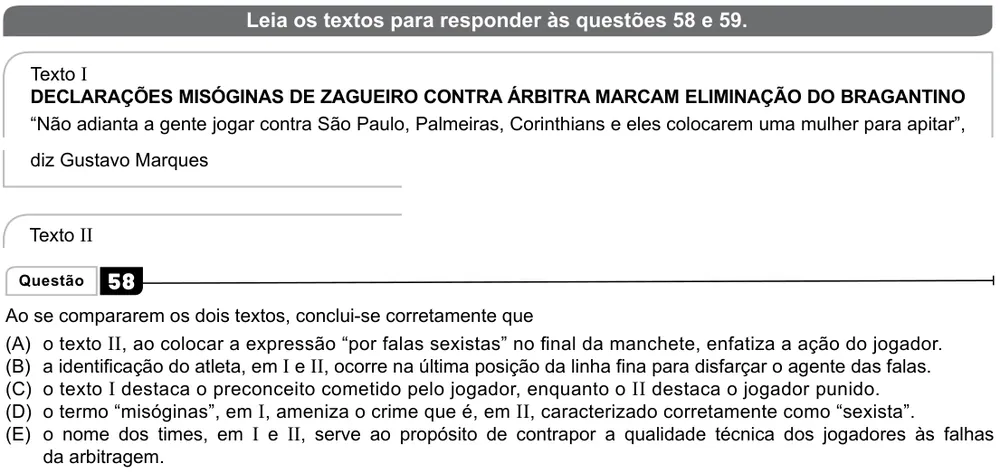
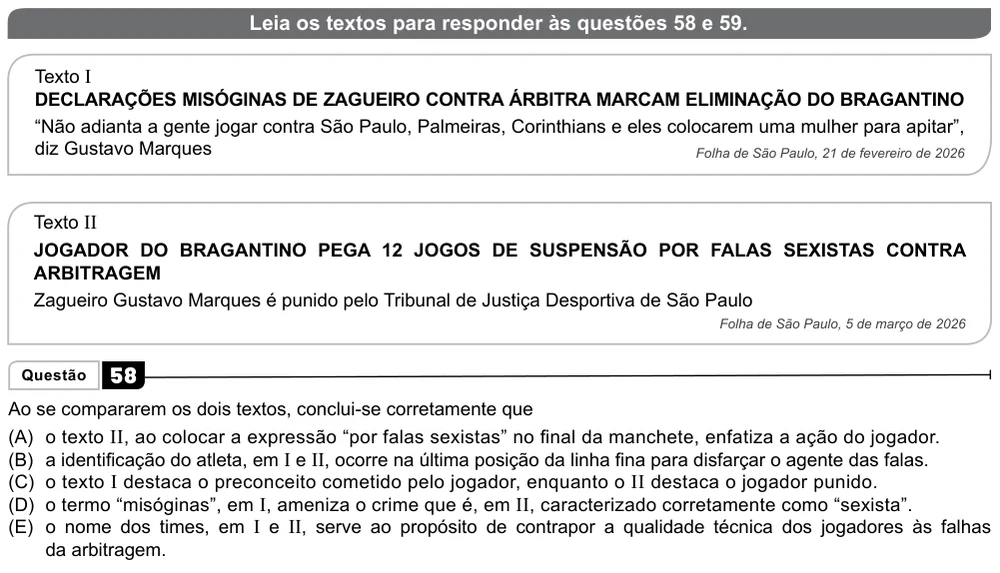
Prints refeitos do PDF oficial: 3 questões de Português voltam para a fila
- fatec-2026-2 q58 (P0c8c68ab): incluídos o comando e os Textos I e II (manchete que faltava).
- fema-2020 q19 (P31dcd8ee): incluído o conto de apoio (pág. 6 e 7) acima do enunciado.
- ufsm-2025 q48 (Pbddde95d): recorte da página inteira, alternativas C e D completas.
Texto guardado atualizado pela camada de texto; retiradas dos pendentes de registro-por.json.

Claude-Session: https://claude.ai/code/session_01PveEKabuyZnqVN65W5FfEc

Changed region(s): [[0.0, 0.0, 1.0, 1.0], [0.992, 0.0296, 1.0, 0.0592]]

diff --git a/docs/resolucoes/lotes-por.md b/docs/resolucoes/lotes-por.md
@@ -1,6 +1,6 @@
 # Português: resoluções (gerado por lote.py em 2026-11-13)
 
-Faltam 2227 questões sem resolução (fora as que estão em lote, pendentes ou com divergência): ENEM nível 1-6 0; provas-alvo nível 1-6 0; demais nível 1-6 1688; ENEM nível 7-10 53; provas-alvo nível 7-10 225; demais nível 7-10 261.
+Faltam 2230 questões sem resolução (fora as que estão em lote, pendentes ou com divergência): ENEM nível 1-6 0; provas-alvo nível 1-6 0; demais nível 1-6 1691; ENEM nível 7-10 53; provas-alvo nível 7-10 225; demais nível 7-10 261.
 
 ## Lotes
 
@@ -112,8 +112,6 @@ Faltam 2227 questões sem resolução (fora as que estão em lote, pendentes ou 
 | P52289eb6 | Acafe 2026 Verão · questão 11 | P12.5 literatura contemporânea e autores africanos de língua portuguesa (tema P12 Literatura: Pré-Modernismo em diante) | obra: o poema Andorinhas escrevem no ar derruba C (o eu lírico entende a escrita da andorinha, não a vê como inalcançável) e D (o próprio poema é de versos livres, sem forma clássica), mas escolher entre A (temática central de O Código das Águas: economia verbal e impacto visual) e B (o espírito da Catequese Poética) depende de saber qual é a temática do livro e o que foi a Catequese Poética de Lindolf Bell, que a questão não explica. |
 | P3bd2c3bc | Acafe 2026 Verão · questão 12 | P12.4 Geração de 45 e prosa de ruptura: Guimarães Rosa, Clarice Lispector, João Cabral (tema P12 Literatura: Pré-Modernismo em diante) | obra: as quatro alternativas tratam do enredo e das personagens de Memorial de Maria Moura, de Rachel de Queiroz (questão agrária, liderança de Maria Moura, papéis de gênero, polifonia e visão da protagonista), sem trecho do romance na questão; a eliminação depende da leitura integral. Além disso, Rachel de Queiroz é autora do Modernismo de 30, não da geração de 45 (P12.4). |
 | Pb66a8695 | Acafe 2026 Verão · questão 13 | P01.2 informação explícita × inferência (tema P01 Leitura e compreensão) | O comando pede a alternativa correta "considerando o contexto da obra" O exercício da incerteza, mas a questão traz só uma frase do livro; a alternativa do gabarito (B) fala em estudo contínuo e humanização do paciente, que não se deduzem da frase citada. Resolver exigiria afirmar o conteúdo do livro, que não está na questão. |
-| P0c8c68ab | Fatec 2026 2º semestre · questão 58 | P01.2 informação explícita × inferência (tema P01 Leitura e compreensão) | print: o Texto II (a segunda manchete, com "por falas sexistas") não está no print nem no texto da prova; só aparece o rótulo "Texto II". O print das questões 58 e 59 (fatec-2026-2) tem o mesmo corte. |
-| P31dcd8ee | Fema 2021 Processo Seletivo 2021 · questão 19 | P01.2 informação explícita × inferência (tema P01 Leitura e compreensão) | print: o texto de apoio (a trajetória do escrevente) não está no print 019 nem no texto da prova; o print 018 é de Química. Refazer o print a partir do PDF oficial. |
 | Pfa1a5f21 | Fuvest 2021 1ª fase · questão 34 | P11.1 Barroco e Arcadismo (tema P11 Literatura: do Barroco ao Simbolismo) | classificação: é de Biologia (com História). A estrofe de Os Lusíadas serve só de contexto; o comando pede a doença cujos sintomas Camões descreve, e as alternativas são doenças com agente, transmissão e época (peste bubônica, escorbuto, malária, varíola, leishmaniose). A resposta (escorbuto, gabarito B) depende de reconhecer o quadro clínico da falta de vitamina C (gengivas inchadas que crescem e apodrecem) e o contexto das viagens ultramarinas, conteúdo de Biologia e História, não de Barroco ou Arcadismo. |
 | Pd0bacd15 | Fuvest 2022 1ª fase · questão 19 | P11.3 Realismo e Naturalismo, com Machado de Assis (tema P11 Literatura: do Barroco ao Simbolismo) | obra: a questão pede quais obras da lista da Fuvest têm narrativas paralelas e não traz trecho nenhum. Para decidir entre Quincas Borba, Nove noites, Campo geral, Terra sonâmbula e Angústia, é preciso conhecer a estrutura de cada romance inteiro: quantos fios narrativos há e como eles se alternam. Nem datas nem escolas separam as alternativas. Observação: a classificação em P11.3 só se aplica a Quincas Borba; as outras obras são do século XX ou da literatura africana de língua portuguesa. |
 | P154ccb4a | Fuvest 2024 1ª fase · questão 15 | P12.5 literatura contemporânea e autores africanos de língua portuguesa (tema P12 Literatura: Pré-Modernismo em diante) | obra: a questão pergunta o resultado da rivalidade entre Yaqub e Omar em Dois irmãos, de Milton Hatoum, sem trecho do romance; C (a ida de Nael a São Paulo) e D (a morte de Rânia) são fatos de enredo que só a leitura do livro confirma ou desmente, e a E também depende do desfecho do romance. |
@@ -161,7 +159,6 @@ Faltam 2227 questões sem resolução (fora as que estão em lote, pendentes ou 
 | Pbc02114e | UFPR 2025 1ª fase · questão 69 | P11.1 Barroco e Arcadismo (tema P11 Literatura: do Barroco ao Simbolismo) | obra: a questão não traz nenhum trecho das Liras de Marília de Dirceu. As afirmativas 2 (voz de Dirceu em todas as liras, fuga do amor até ser vencido por Cupido) e 3 (predomínio de versos de 5 e 7 sílabas) exigem conhecer o conjunto da obra; a 1 depende do local e da data de publicação, que a questão não dá. |
 | P5ddee564 | UFPR 2026 1ª fase · questão 67 | P12.5 literatura contemporânea e autores africanos de língua portuguesa (tema P12 Literatura: Pré-Modernismo em diante) | obra: a questão pede comparar três contos de O sol na cabeça, de Geovani Martins ("Rolézim", "Estação Padre Miguel" e "A história do Periquito e do Macaco"), sem reproduzir nenhum trecho; quem narra cada conto, o tipo de linguagem, o gênero dos protagonistas e o peso da violência em cada um só se verificam com a leitura do livro, e nenhuma alternativa cai por eliminação sem isso. |
 | P4e59af67 | UFPR 2026 1ª fase · questão 72 | P11.2 Romantismo: poesia das três gerações e prosa (tema P11 Literatura: do Barroco ao Simbolismo) | obra: a questão pergunta quem é a mulher que entra no capítulo final de Noite na taverna, e as cinco alternativas resumem enredos de capítulos diferentes do livro. A prova não traz trecho nenhum: a resposta depende inteiramente da leitura da obra, e nada no enunciado permite separar a C das outras. |
-| Pbddde95d | UFSM 2025 · questão 48 | P01.2 informação explícita × inferência (tema P01 Leitura e compreensão) | print: alternativas C e D cortadas na margem; recortar de novo do PDF da UFSM |
 | Pd561650c | UFU 2020 1ª fase · questão 59 | P12.4 Geração de 45 e prosa de ruptura: Guimarães Rosa, Clarice Lispector, João Cabral (tema P12 Literatura: Pré-Modernismo em diante) | obra: as alternativas tratam do enredo de A moratória, de Jorge Andrade (perda da fazenda, papel do governo, casamento de Lucília, o que se revela em cada ato), sem trecho da peça na questão; a eliminação depende inteiramente da peça. Também não é obra da geração de 45 (P12.4). |
 | Pb02266b6 | UFU 2020 1ª fase · questão 60 | P12.5 literatura contemporânea e autores africanos de língua portuguesa (tema P12 Literatura: Pré-Modernismo em diante) | obra: a questão pede a afirmação correta sobre os relacionamentos em A cor púrpura, de Alice Walker, sem trecho do romance; A e B usam "sempre", mas derrubá-las exige exemplos do livro, e C (Celie e Shug abandonam os homens para serem um casal) e D (vínculos entre mulheres negras e brancas) só se julgam conhecendo o enredo. |
 | P9cb2e259 | UFU 2021 1ª fase · questão 57 | P12.1 Pré-Modernismo: Euclides da Cunha, Lima Barreto, Augusto dos Anjos (tema P12 Literatura: Pré-Modernismo em diante) | obra: o trecho dado é só a abertura do conto "O número da sepultura". A alternativa A cai pelo trecho (narração em 3ª pessoa: "podia ela dizer", "lhe parecia"), mas B (pai e marido como antagonistas que tolhem Zilda) e D (enredo de reviravoltas e humor absurdo) dependem do enredo do conto, que não está na prova; sem ele não dá para provar que B e D são falsas, nem que o conto se passa no subúrbio, como diz a C. |

diff --git a/docs/provas/prints-refeitos.md b/docs/provas/prints-refeitos.md
@@ -165,3 +165,6 @@
 | 2026-11-12 | (script) | — | — | transcreve.py: junção de linhas | — | causa: `_limpa` tirava todo hífen seguido de espaço/quebra e letra minúscula (inclusive o do meio da linha: "1- meiose" → "1meiose", e o de verdade no fim da linha: "tornando-se" → "tornandose"); a continuação da alternativa em outro bloco era emendada depois da limpeza ("au- menta" ficava); o U+00AD virava "-" mesmo no meio da palavra ("s-ublinhado"). Agora: a emenda de linha que termina em hífen leva a marca QUEBRA e `_limpa` decide com `_hifen_real` (maiúscula/número depois do hífen; uso da palavra inteira × com hífen no `texto` de todas as provas gravadas; prefixos pós/recém/além/vice/grã; compostos em -ico; pronome depois do verbo; endereço); hífen com espaço no meio da linha fica como impresso; U+00AD no meio da linha sai; hífen repetido na linha de baixo vira um só; a continuação da alternativa passa de novo pela limpeza; palavra partida entre blocos continua o bloco anterior. Conferido rodando em cópia (unioeste-2021/2022, unicamp-2024/2026, pucrio-2024/2026, uece 2020-2/2021-1/2022-1/2026-1, são camilo 2025-2, einstein 2025/2026, unesp-2024/2024-2, fuvest-2024/2025, fmj-2022, unitins-2020-1, ufpr-2026, famerp-2023, santacasa-2026, pucrs-2026, uel-2025, ufu-2021): as diferenças de hífen em relação aos arquivos corrigidos à mão ficaram só em compostos raros sem registro no corpus ("n-dimensional", "côncavo-convexas", "multibillion-dollar", "protege-los") e endereços ambíguos ("xvjornada"); arquivos gravados não foram regravados pelo script |
 
 Provas da varredura de hífens (questões alteradas / trechos): acafe-2022-inverno 1q/1; acafe-2023-inverno 1q/1; acafe-2024-verao 1q/1; acafe-2025-inverno 2q/2; acafe-2026-verao 1q/1; cederj-2020-1 1q/1; cederj-2021-2 7q/8; cederj-2023-1 1q/1; cederj-2024-1 1q/1; cederj-2026-1 2q/2; cederj-2026-2 4q/4; cmmg-2021-2 1q/1; cmmg-2022-1 1q/1; cmmg-2024-2 2q/6; cmmg-2026-2 5q/5; einstein-2025 6q/13; einstein-2026 9q/22; emescam-2022-1 2q/2; enem-2025 1q/1; famema-2022 1q/1; famema-2025 4q/7; famerp-2021 6q/7; famerp-2022 1q/1; famerp-2023 3q/4; fatec-2025-1 4q/4; fema-2020 1q/1; fempar-2021 1q/1; fempar-2026 1q/1; fempar-2027 4q/5; fmabc-2020 1q/1; fmabc-2021 6q/6; fmabc-2022 1q/1; fmabc-2025 1q/1; fmj-2022 3q/3; fuvest-2022 2q/2; fuvest-2023 3q/3; fuvest-2024 8q/9; fuvest-2025 1q/2; fuvest-2026 3q/3; fuvest-2027 2q/3; mackenzie-2022-2 4q/4; mackenzie-2026-1 1q/1; mackenzie-2026-2 1q/1; mackenzie-2026-3 4q/7; mackenzie-2027-1 2q/2; puccampinas-2021 2q/2; puccampinas-2022 1q/1; puccampinas-2027 2q/2; pucpr-2024-1 3q/3; pucpr-2024-2 1q/1; pucpr-2025-2 1q/1; pucrio-2023 1q/1; pucrio-2024 8q/23; pucrio-2024-g2 3q/5; pucrio-2025 7q/16; pucrio-2026 6q/21; pucrio-2027 3q/5; pucrs-2022 7q/16; pucrs-2023 5q/13; pucrs-2025 3q/4; pucrs-2026 8q/18; pucsp-2026 2q/2; santacasa-2021 1q/1; santacasa-2025 1q/2; santacasa-2026 11q/18; santacasa-2027 5q/5; saocamilo-2020-1 7q/9; saocamilo-2021-2 1q/1; saocamilo-2023-1 3q/4; saocamilo-2025-2 12q/42; udesc-2023-2 2q/2; uea-2021 2q/2; uea-2021-bio 4q/4; uea-2025 1q/1; uea-2026 7q/7; uea-2026-hum 1q/1; uea-2027-hum 1q/1; uea-sis3-2020 1q/1; uea-sis3-2027 2q/3; uece-2020-2 1q/1; uece-2020-2-f2 10q/12; uece-2021-1 10q/10; uece-2021-1-f2 12q/13; uece-2022-1 10q/10; uece-2022-1-f2 14q/15; uece-2022-2-f2 5q/7; uece-2023-1 7q/7; uece-2023-2 1q/1; uece-2024-1 4q/4; uece-2024-2 2q/2; uece-2025-1 2q/3; uece-2025-2 5q/5; uece-2026-1 9q/9; uece-ead-2022 1q/1; ueg-2020-1 3q/6; ueg-2021-1 1q/1; ueg-2021-2 3q/3; ueg-2022-1 2q/2; ueg-2022-2 2q/2; ueg-2023-1 2q/2; ueg-2024-2 4q/4; ueg-2025-1 3q/3; ueg-2026-1 1q/1; ueg-2026-2 2q/2; ueg-medicina-2024-2 4q/5; ueg-medicina-2025-2 1q/1; uel-2020 1q/2; uel-2022 2q/2; uel-2023 2q/2; uel-2025 3q/3; uel-2026 3q/3; uema-paes-2020 3q/3; uema-paes-2021 1q/1; uema-paes-2022 1q/3; uema-paes-2024 1q/1; uemg-2024 2q/2; ufam-psc3-2020 1q/1; ufam-psc3-2021 1q/2; ufam-psc3-2023 2q/2; ufam-psc3-2024 3q/3; ufpr-2020 1q/1; ufpr-2026 1q/1; ufrr-2023 1q/1; uft-2022-1 1q/1; uft-2022-2 2q/3; uft-2023-1 4q/4; uft-2023-2 1q/1; uft-2024-1 3q/3; uft-2024-2 2q/3; ufu-2020 1q/1; ufu-2021 4q/8; ufu-2022 2q/2; ufu-2023 2q/2; ufu-2024 1q/1; ufu-2025 1q/1; ufu-2026 2q/2; unemat-2022-2 1q/1; unemat-2026-1 2q/2; unesp-2020 2q/3; unesp-2021 1q/2; unesp-2021-exh 8q/9; unesp-2022 1q/1; unesp-2022-exh 2q/2; unesp-2023 1q/1; unesp-2024 1q/1; unesp-2024-2 12q/16; unesp-2025 1q/1; unesp-2025-2 2q/3; unesp-2026-2 1q/1; unicamp-2021 2q/2; unicamp-2021-exh 2q/2; unicamp-2023 15q/52; unicamp-2024 16q/46; unicamp-2025 10q/34; unicamp-2026 17q/59; unicamp-2027 10q/25; unicentro-2022 2q/2; unicentro-2024 3q/3; unicentro-2027 2q/2; unifesp-2024 1q/3; unifor-2025-1 1q/1; unifor-2026-1 1q/1; unifor-2026-2 4q/4; unifor-2027-1 3q/3; unimontes-2024 1q/1; unioeste-2021 39q/176; unioeste-2022 21q/101; unirg-2022-1 1q/1; unirg-2022-2 2q/2; unirg-2023-2 2q/2; unirg-2026-2 4q/4; unirg-2027-1 1q/1; unitins-2020-1 7q/7; unitins-2021-1 5q/5; unitins-2023-1 3q/3; unitins-2023-1-c2 2q/2; unitins-2024-1 2q/3; unitins-2024-1-c2 2q/5; unitins-2024-2 1q/1; unitins-2025-2 4q/8; unitins-2026-1-c2 1q/1; upe-ssa3-2020 1q/1; upe-ssa3-2021 1q/1; upe-ssa3-2023 2q/3; upe-ssa3-2024 1q/1; urca-2027-1 5q/7; utfpr-2025 1q/1; uva-2024-1 1q/1; uva-2025-1 1q/1
+| 2026-11-13 | fatec-2026-2 | 58 | P0c8c68ab | 1000x473 | 1000x573 | 22: 24,24,557,212; 22: 24,219,557,336 |
+| 2026-11-13 | fema-2020 | 19 | P31dcd8ee | 1000x241 | 1000x725 | 6: 24,612,573,780; 7: 24,26,573,120; 7: 24,135,573,270 |
+| 2026-11-13 | ufsm-2025 | 48 | Pbddde95d | 1000x1448 | 1000x1346 | 5: 24,50,574,790 |
